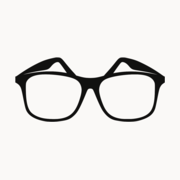
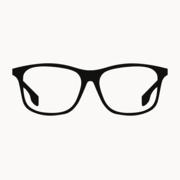
Use thinner glasses and tie the h1 size to the body text
The new glasses SVG has a lighter rim, so it no longer reads as
sunglasses. The h1 is now 2x the body size on mobile and 4x on desktop.

Changed region(s): [[0.0556, 0.3056, 0.9444, 0.6944]]

diff --git a/public/assets/styles.css b/public/assets/styles.css
@@ -4,6 +4,9 @@
   --muted: #6f6d68;
   --rule: #e4e2dd;
   --hover: #f1efeb;
+  /* Type scale: body 17px at 375px wide to 20px at 1280px; h1 is 2x body on mobile, 4x on desktop */
+  --body: clamp(1.0625rem, 0.985rem + 0.332vw, 1.25rem);
+  --h1: clamp(2.125rem, 0.934rem + 5.08vw, 5rem);
 }
 @media (prefers-color-scheme: dark) {
   :root {
@@ -41,7 +44,7 @@ main {
 
 h1 {
   margin: 0;
-  font-size: clamp(2.5rem, 8vw, 6.5rem);
+  font-size: var(--h1);
   font-weight: 700;
   line-height: 0.98;
   letter-spacing: -0.045em;
@@ -53,7 +56,7 @@ h1 .light { font-weight: 300; color: var(--muted); }
 p {
   margin: 2.5rem 0 0;
   max-width: 34rem;
-  font-size: clamp(1.05rem, 1.6vw, 1.25rem);
+  font-size: var(--body);
   line-height: 1.55;
   color: var(--muted);
 }
@@ -76,15 +79,15 @@ a { color: var(--fg); }
 }
 .card:hover, .card:focus-visible { background: var(--hover); border-color: var(--muted); }
 .card img { width: 40px; height: 40px; flex: none; }
-.card strong { display: block; font-size: 1.0625rem; font-weight: 600; letter-spacing: -0.01em; }
-.card small { display: block; font-size: 0.9375rem; color: var(--muted); }
+.card strong { display: block; font-size: var(--body); font-weight: 600; letter-spacing: -0.01em; }
+.card small { display: block; font-size: calc(var(--body) * 0.875); color: var(--muted); }
 .card .arrow { margin-left: 0.5rem; color: var(--muted); transition: transform 0.2s ease; }
 .card:hover .arrow { transform: translateX(3px); }
 
 /* The glasses peek up from the bottom edge and pop up on hover */
 .peek {
   --w: clamp(220px, 40vw, 360px);
-  height: calc(var(--w) * 0.43 + 12px);
+  height: calc(var(--w) * 0.339 + 12px);
   overflow: hidden;
   display: flex;
   justify-content: center;
@@ -93,7 +96,7 @@ a { color: var(--fg); }
 
 .glasses {
   width: var(--w);
-  aspect-ratio: 1411 / 607;
+  aspect-ratio: 1980 / 670;
   margin-top: 12px;
   background: var(--fg);
   -webkit-mask: url(/assets/glasses.svg) center / contain no-repeat;
